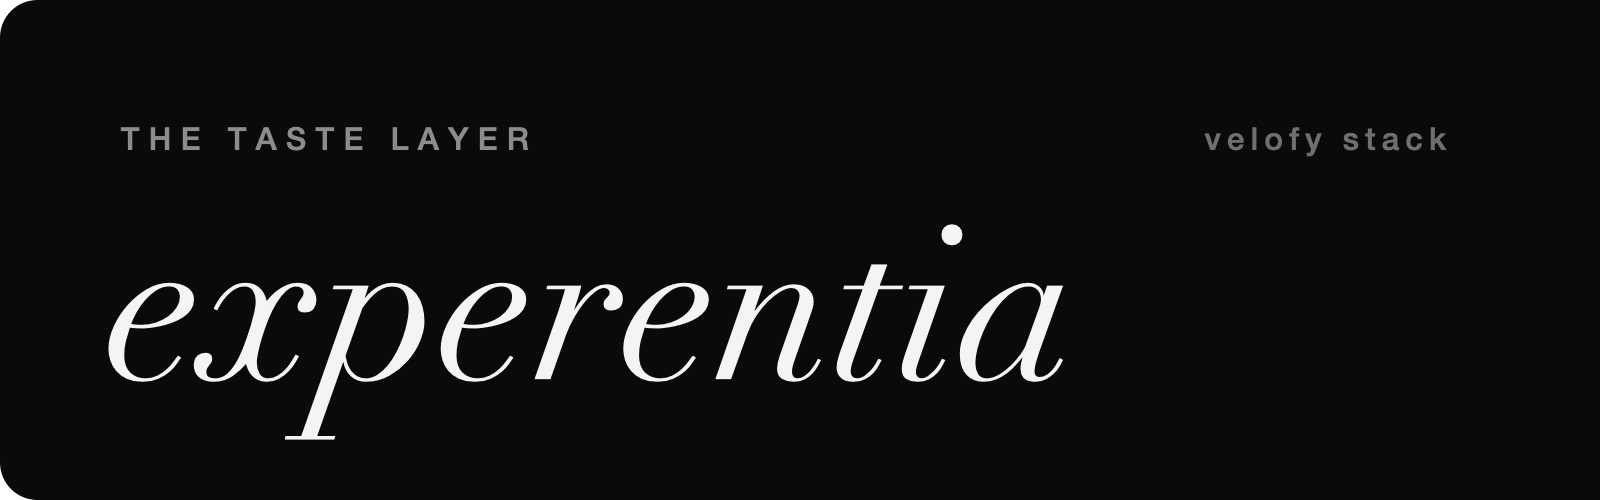
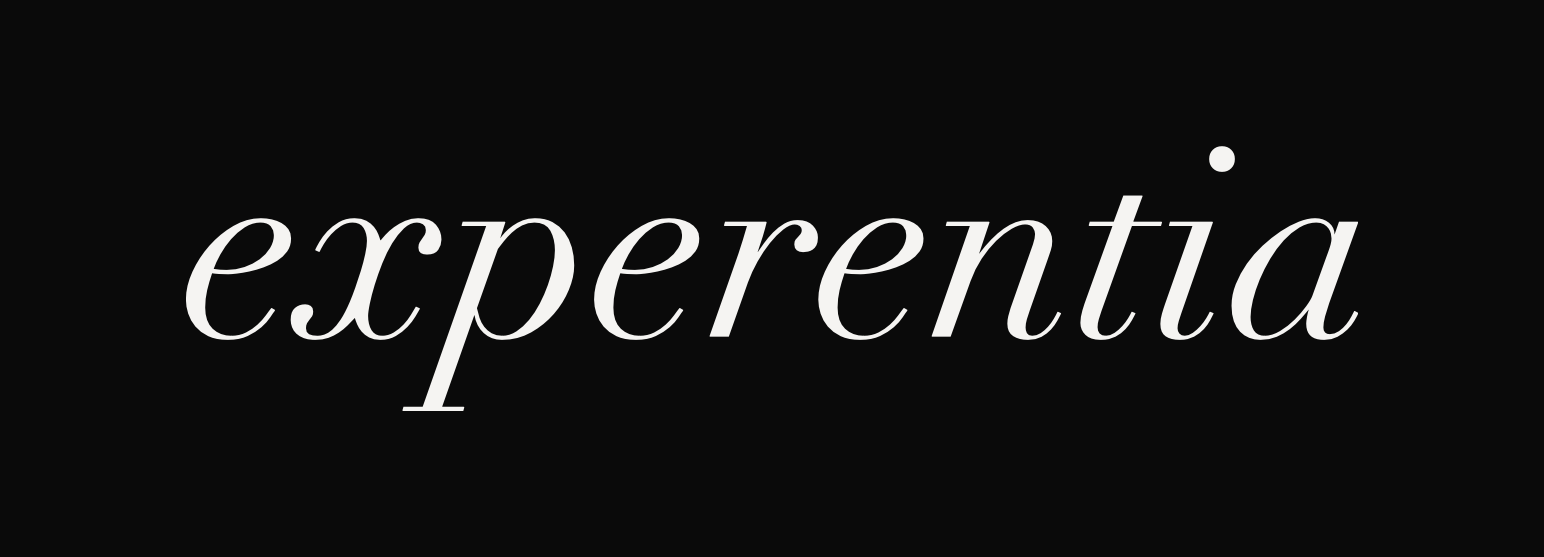
anishfyi - centauri auto fixes

diff --git a/README.md b/README.md
@@ -1,4 +1,6 @@
-<img src="assets/experentia-wordmark.png" alt="experentia" width="460">
+<div align="center">
+  <img src="assets/experentia-wordmark.png" alt="experentia" width="440">
+</div>
 
 A taste-engine for frontends. It answers two questions an AI agent cannot answer
 from a component library alone: what does good look like for this audience, and
@@ -8,8 +10,6 @@ readable profiles, and proven with reference templates that pass their own tests
 **Live site:** [velofy.github.io/experentia](https://velofy.github.io/experentia/) (landing page and browsable reference templates).
 
 experentia is one of three layers a velofy agent builds with:
-
-<img src="assets/velofy-wordmark.png" alt="velofy" width="460">
 
 - **summit.js** (velofy/summitjs) is the runtime: performant components, tokens,
   loaders.